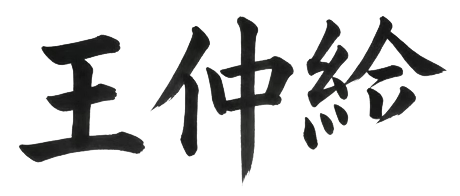
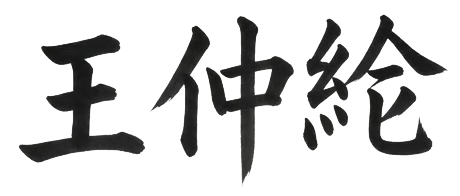
Refine mobile hierarchy and restore calendar proportions

diff --git a/assets/css/v4.css b/assets/css/v4.css
@@ -470,18 +470,20 @@ h1 {
 /* Phone edition: bold, readable type with a narrow calendar in the margin. */
 html { -webkit-text-size-adjust: 100%; text-size-adjust: 100%; }
 @media (max-width: 600px) {
-  .page { zoom: 1; width: calc(100% - 32px); grid-template-columns: minmax(0, 1fr) 40px; column-gap: 20px; row-gap: 24px; padding: 48px 0 48px; }
-  .about { font-size: clamp(16px, 4.7vw, 20px); line-height: 1.3; letter-spacing: -0.025em; }
+  .page { zoom: 1; width: calc(100% - 28px); grid-template-columns: minmax(0, 1fr) 78px; column-gap: 14px; row-gap: 18px; padding: 34px 0 34px; }
+  .about { font-size: 12px; line-height: 1.38; letter-spacing: -0.012em; }
   .about a, .about .sunset-word { font-size: inherit; line-height: inherit; }
+  .about .intro-lead { display: block; font-size: 18px; line-height: 1.12; letter-spacing: -0.035em; margin-bottom: 10px; }
   .about p { text-wrap: wrap; overflow-wrap: anywhere; }
-  .about p + p, .about p + .stanford, .about .stanford + p { margin-top: 24px; }
-  .stanford { padding-left: 10px; }
-  .stanford ul { padding-left: 15px; }
-  .stanford li + li { margin-top: 5px; }
-  .elsewhere { font-size: 12px; line-height: 1.7; gap: 5px 7px; }
-  .calligraphy-signature { width: 104px; margin-bottom: 18px; }
-  .github-chart-scroll { left: 40px; height: 40px; }
-  .github-chart { height: 40px; }
+  .about p + p, .about p + .stanford, .about .stanford + p { margin-top: 16px; }
+  .stanford { padding-left: 8px; }
+  .stanford h2 { font-size: 14px; margin-bottom: 5px; }
+  .stanford ul { padding-left: 12px; }
+  .stanford li + li { margin-top: 3px; }
+  .elsewhere { font-size: 10px; line-height: 1.5; gap: 4px 6px; margin-top: 16px; }
+  .calligraphy-signature { width: 92px; margin-bottom: 12px; }
+  .github-chart-scroll { height: auto; }
+  .github-chart { height: auto; }
 }
 .calligraphy-poster-fallback { display: none; width: 100%; }
 .calligraphy-signature.use-poster video { display: none; }

diff --git a/dist/client/assets/css/v4.css b/dist/client/assets/css/v4.css
@@ -470,18 +470,20 @@ h1 {
 /* Phone edition: bold, readable type with a narrow calendar in the margin. */
 html { -webkit-text-size-adjust: 100%; text-size-adjust: 100%; }
 @media (max-width: 600px) {
-  .page { zoom: 1; width: calc(100% - 32px); grid-template-columns: minmax(0, 1fr) 40px; column-gap: 20px; row-gap: 24px; padding: 48px 0 48px; }
-  .about { font-size: clamp(16px, 4.7vw, 20px); line-height: 1.3; letter-spacing: -0.025em; }
+  .page { zoom: 1; width: calc(100% - 28px); grid-template-columns: minmax(0, 1fr) 78px; column-gap: 14px; row-gap: 18px; padding: 34px 0 34px; }
+  .about { font-size: 12px; line-height: 1.38; letter-spacing: -0.012em; }
   .about a, .about .sunset-word { font-size: inherit; line-height: inherit; }
+  .about .intro-lead { display: block; font-size: 18px; line-height: 1.12; letter-spacing: -0.035em; margin-bottom: 10px; }
   .about p { text-wrap: wrap; overflow-wrap: anywhere; }
-  .about p + p, .about p + .stanford, .about .stanford + p { margin-top: 24px; }
-  .stanford { padding-left: 10px; }
-  .stanford ul { padding-left: 15px; }
-  .stanford li + li { margin-top: 5px; }
-  .elsewhere { font-size: 12px; line-height: 1.7; gap: 5px 7px; }
-  .calligraphy-signature { width: 104px; margin-bottom: 18px; }
-  .github-chart-scroll { left: 40px; height: 40px; }
-  .github-chart { height: 40px; }
+  .about p + p, .about p + .stanford, .about .stanford + p { margin-top: 16px; }
+  .stanford { padding-left: 8px; }
+  .stanford h2 { font-size: 14px; margin-bottom: 5px; }
+  .stanford ul { padding-left: 12px; }
+  .stanford li + li { margin-top: 3px; }
+  .elsewhere { font-size: 10px; line-height: 1.5; gap: 4px 6px; margin-top: 16px; }
+  .calligraphy-signature { width: 92px; margin-bottom: 12px; }
+  .github-chart-scroll { height: auto; }
+  .github-chart { height: auto; }
 }
 .calligraphy-poster-fallback { display: none; width: 100%; }
 .calligraphy-signature.use-poster video { display: none; }

diff --git a/dist/client/index.html b/dist/client/index.html
@@ -30,10 +30,10 @@
   <link rel="canonical" href="https://tonywang.xyz/">
   <link rel="preload" as="image" href="images/sf-sunset.jpg" fetchpriority="high">
   <link rel="preload" as="image" href="images/sf-sunset-fantasy.png">
-  <link rel="stylesheet" href="assets/css/v4.css?v=20261107-readable-mobile">
+  <link rel="stylesheet" href="assets/css/v4.css?v=20261107-mobile-hierarchy">
   <link rel="stylesheet" href="assets/css/transitions.css?v=20261104-subtle-fade">
   <title>Tony Wang</title>
-  <script defer src="assets/js/editorial-layout.js?v=4"></script>
+  <script defer src="assets/js/editorial-layout.js?v=5"></script>
   <script defer src="assets/js/contribution-watercolor.js?v=1"></script>
   <script defer src="assets/js/calligraphy.js?v=3"></script>
 </head>
@@ -55,11 +55,11 @@
 
     <article class="about" aria-label="About Tony Wang">
     <div class="calligraphy-signature" role="img" aria-label="Tony Wang’s Chinese name in calligraphy">
-      <video muted autoplay playsinline preload="auto" poster="assets/video/calligraphy-poster.png" aria-hidden="true"><source src="assets/video/calligraphy.webm" type="video/webm"></video>
+      <video muted autoplay playsinline preload="auto" poster="assets/video/calligraphy-poster.png?v=2" aria-hidden="true"><source src="assets/video/calligraphy.webm" type="video/webm"></video>
     </div>
 
       <p>
-        i'm a coterm at stanford studying cs (systems + ai) and psychology.
+        <span class="intro-lead">i'm a coterm at stanford studying cs (systems + ai) and psychology.</span>
         previously i worked at <a href="https://cognition.com/">cognition</a>,
         <a href="https://x.ai/">xai</a>, <a href="https://scale.com/">scale ai</a>,
         <a href="https://www.google.com/">google</a>, and

diff --git a/index.html b/index.html
@@ -30,10 +30,10 @@
   <link rel="canonical" href="https://tonywang.xyz/">
   <link rel="preload" as="image" href="images/sf-sunset.jpg" fetchpriority="high">
   <link rel="preload" as="image" href="images/sf-sunset-fantasy.png">
-  <link rel="stylesheet" href="assets/css/v4.css?v=20261107-readable-mobile">
+  <link rel="stylesheet" href="assets/css/v4.css?v=20261107-mobile-hierarchy">
   <link rel="stylesheet" href="assets/css/transitions.css?v=20261104-subtle-fade">
   <title>Tony Wang</title>
-  <script defer src="assets/js/editorial-layout.js?v=4"></script>
+  <script defer src="assets/js/editorial-layout.js?v=5"></script>
   <script defer src="assets/js/contribution-watercolor.js?v=1"></script>
   <script defer src="assets/js/calligraphy.js?v=3"></script>
 </head>
@@ -55,11 +55,11 @@
 
     <article class="about" aria-label="About Tony Wang">
     <div class="calligraphy-signature" role="img" aria-label="Tony Wang’s Chinese name in calligraphy">
-      <video muted autoplay playsinline preload="auto" poster="assets/video/calligraphy-poster.png" aria-hidden="true"><source src="assets/video/calligraphy.webm" type="video/webm"></video>
+      <video muted autoplay playsinline preload="auto" poster="assets/video/calligraphy-poster.png?v=2" aria-hidden="true"><source src="assets/video/calligraphy.webm" type="video/webm"></video>
     </div>
 
       <p>
-        i'm a coterm at stanford studying cs (systems + ai) and psychology.
+        <span class="intro-lead">i'm a coterm at stanford studying cs (systems + ai) and psychology.</span>
         previously i worked at <a href="https://cognition.com/">cognition</a>,
         <a href="https://x.ai/">xai</a>, <a href="https://scale.com/">scale ai</a>,
         <a href="https://www.google.com/">google</a>, and

diff --git a/assets/js/editorial-layout.js b/assets/js/editorial-layout.js
@@ -7,7 +7,7 @@
   const update = () => {
     const scale = innerWidth > 600 && innerWidth <= 880 ? Math.min(1, (document.documentElement.clientWidth - 32) / 826) : 1;
     page.style.setProperty('--composition-scale', scale);
-    rail.style.setProperty('--rail-length', `${rail.clientHeight}px`);
+    rail.style.setProperty('--rail-length', `${innerWidth <= 600 ? Math.min(rail.clientHeight, rail.clientWidth * 663 / 104) : rail.clientHeight}px`);
     const bounds = page.getBoundingClientRect();
     const about = document.querySelector('.about').getBoundingClientRect();
     const photo = document.querySelector('.morning').getBoundingClientRect();

diff --git a/dist/client/assets/js/editorial-layout.js b/dist/client/assets/js/editorial-layout.js
@@ -7,7 +7,7 @@
   const update = () => {
     const scale = innerWidth > 600 && innerWidth <= 880 ? Math.min(1, (document.documentElement.clientWidth - 32) / 826) : 1;
     page.style.setProperty('--composition-scale', scale);
-    rail.style.setProperty('--rail-length', `${rail.clientHeight}px`);
+    rail.style.setProperty('--rail-length', `${innerWidth <= 600 ? Math.min(rail.clientHeight, rail.clientWidth * 663 / 104) : rail.clientHeight}px`);
     const bounds = page.getBoundingClientRect();
     const about = document.querySelector('.about').getBoundingClientRect();
     const photo = document.querySelector('.morning').getBoundingClientRect();
